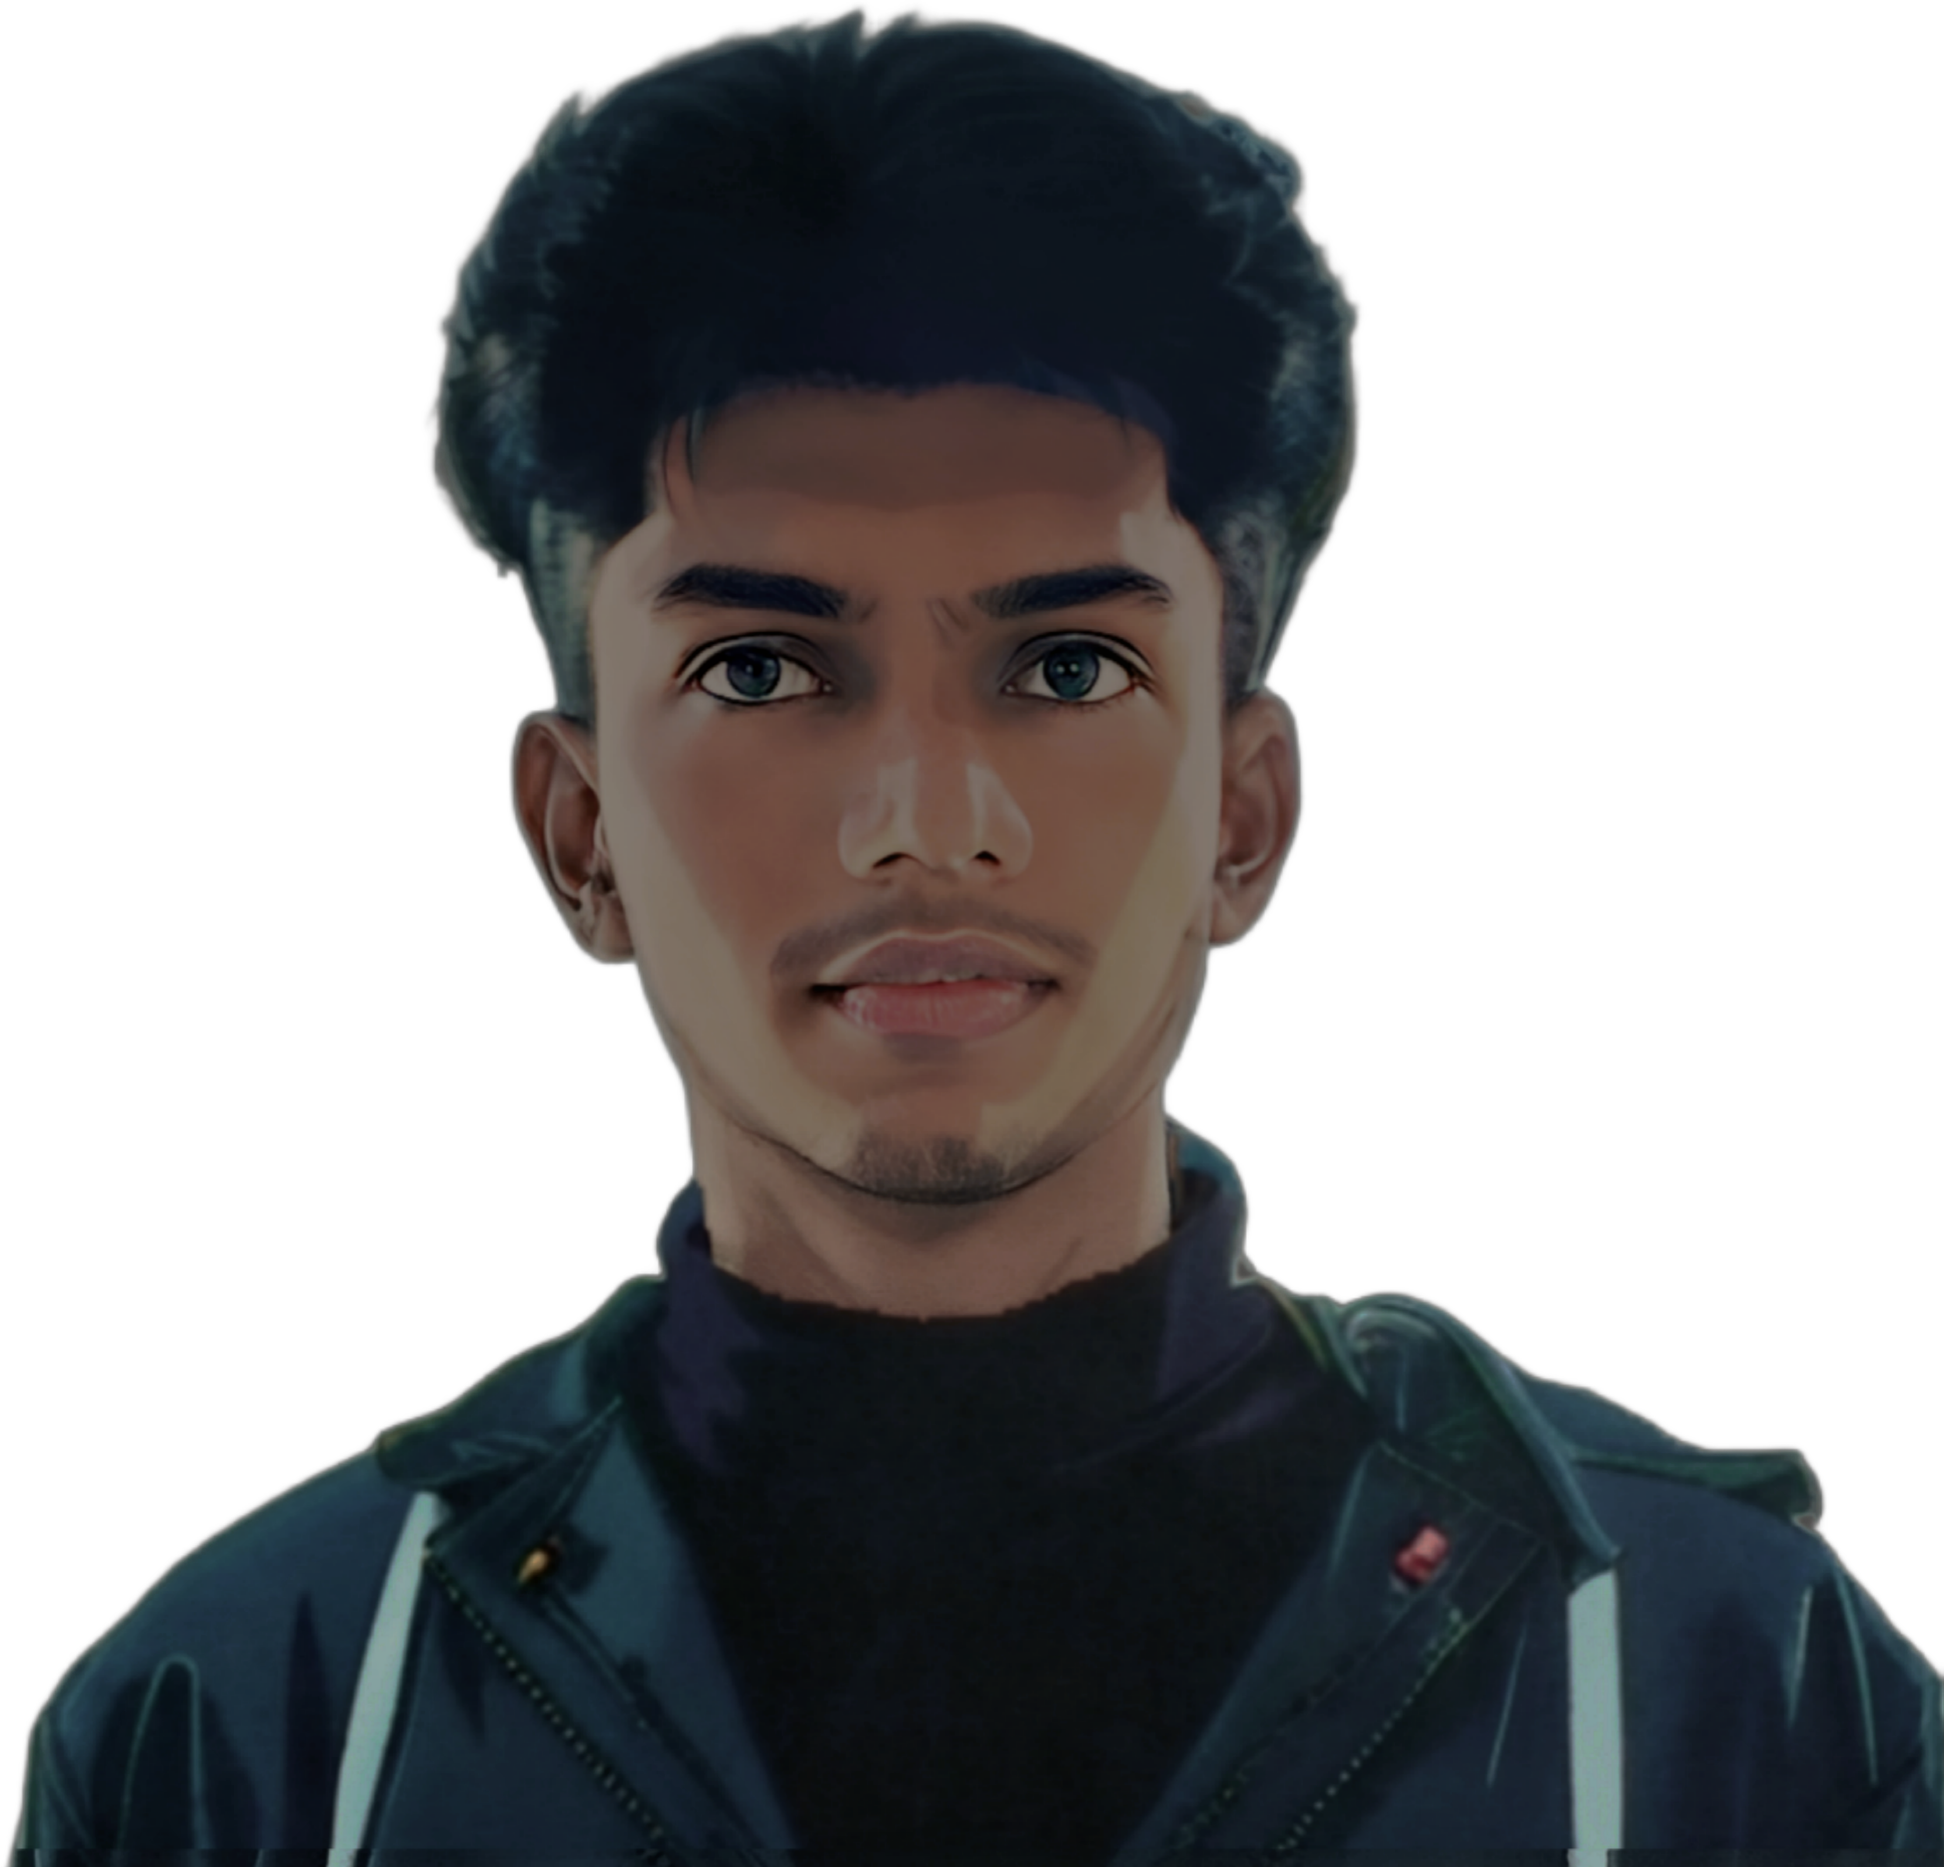
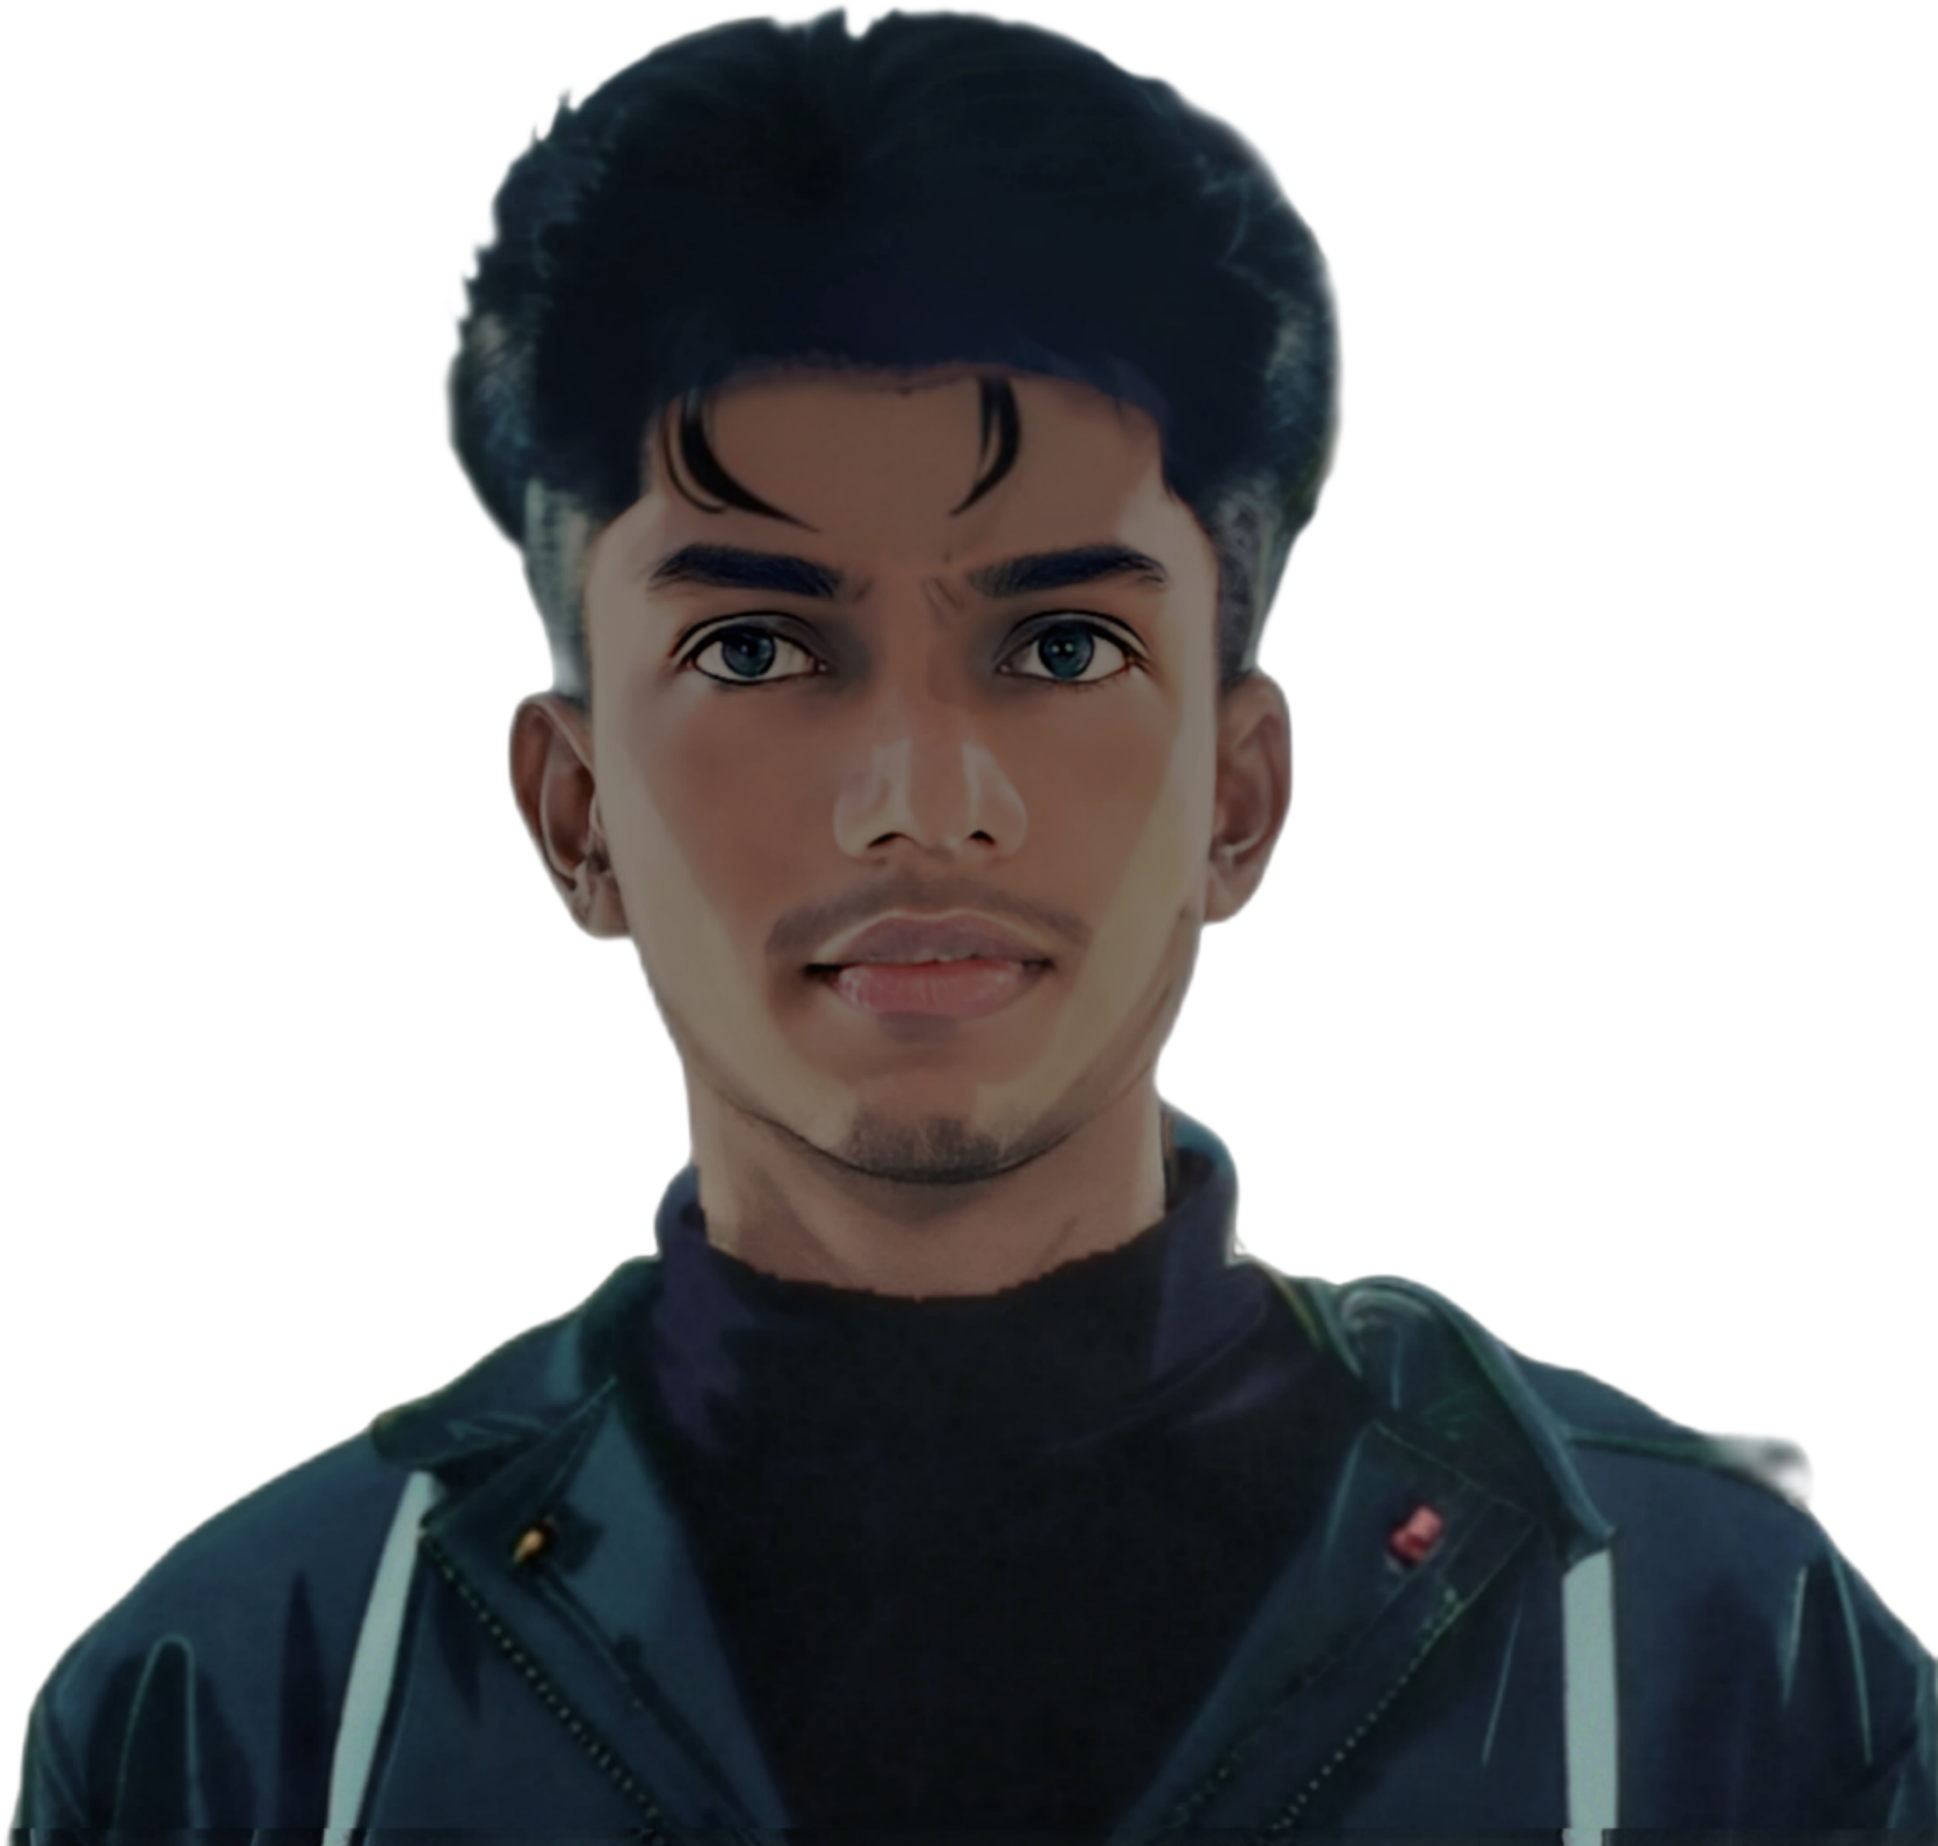
Change main image, update project fadein duration

diff --git a/src/index.css b/src/index.css
@@ -146,7 +146,7 @@ button:focus-visible {
 
 .project-card-div {
   opacity: 0;
-  transition: opacity 2s;
+  transition: opacity 1.2s;
 }
 .project-card-div.fadeIn {
   opacity: 1;
